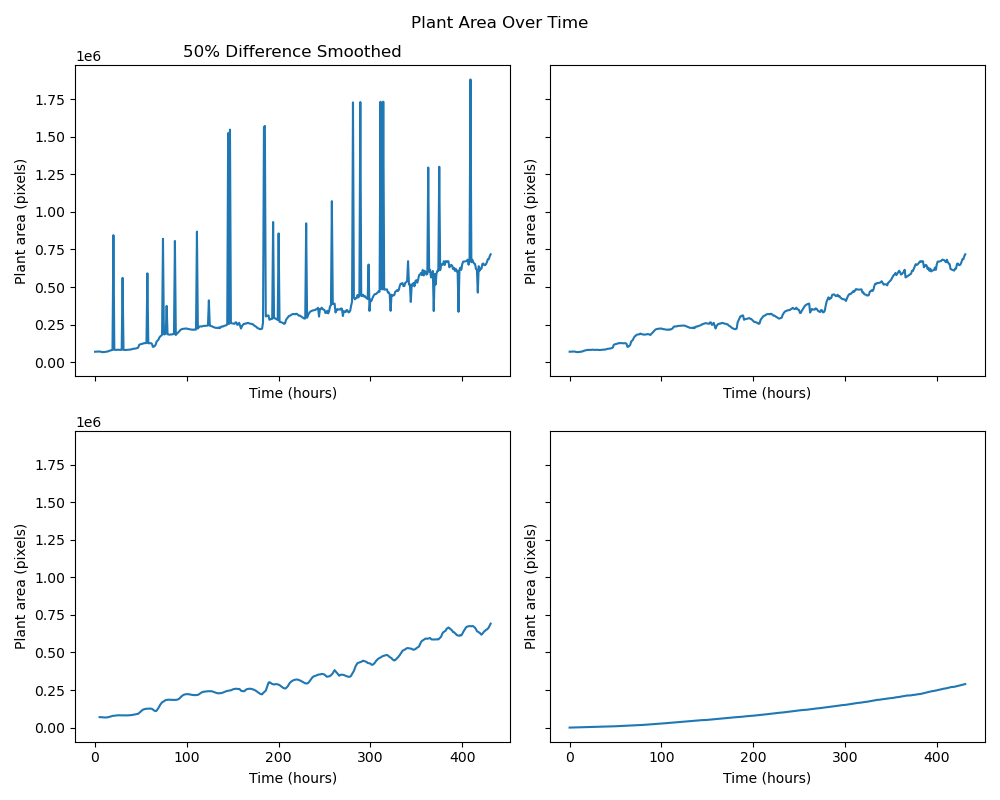
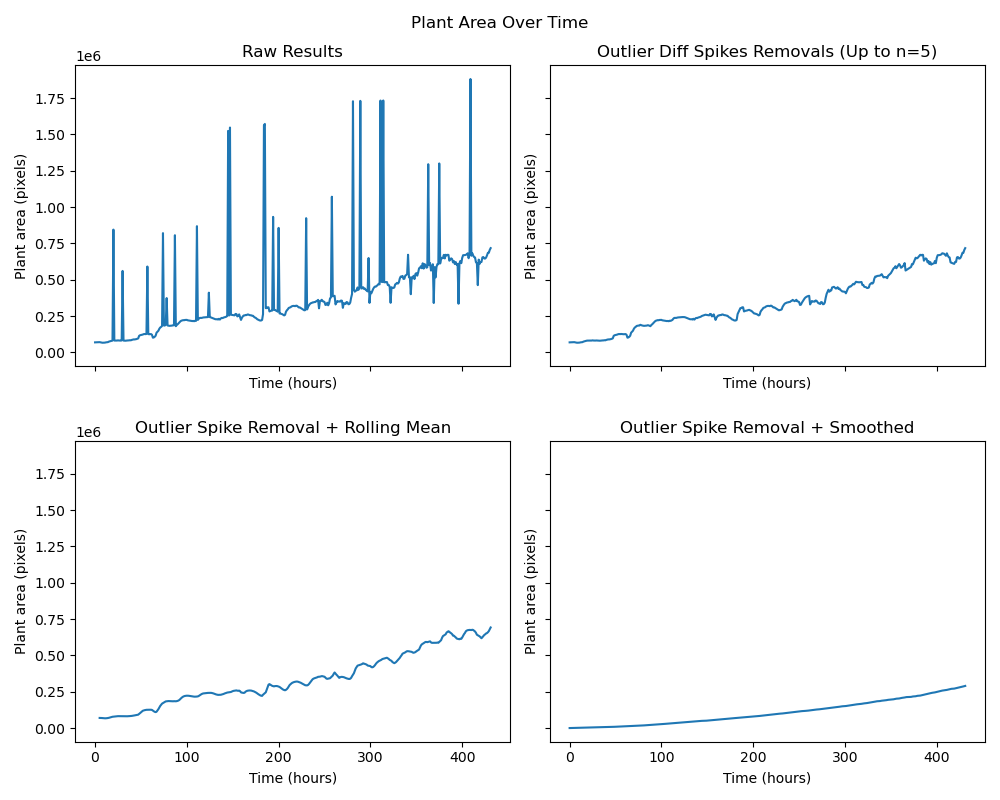
renamed plot titles

diff --git a/workflow/plant_area_over_time/plant_area_over_time.py b/workflow/plant_area_over_time/plant_area_over_time.py
@@ -128,11 +128,11 @@ fig.suptitle("Plant Area Over Time")
 axes[0,0].plot(graph_dataframe['hours_from_start'], graph_dataframe['area'])
 axes[0,0].set_title("Raw Results")
 axes[0,1].plot(filtered_df['hours_from_start'], filtered_df['area'])
-axes[0,1].set_title("50% Difference Removals")
+axes[0,1].set_title("Outlier Diff Spikes Removals (Up to n=5)")
 axes[1,0].plot(filtered_df['hours_from_start'], filtered_df['rolling_mean'])
-axes[1,0].set_title("50% Difference + Rolling Mean")
+axes[1,0].set_title("Outlier Spike Removal + Rolling Mean")
 axes[1,1].plot(filtered_df['hours_from_start'], filtered_df['smoothed'])
-axes[1,1].set_title("50% Difference Smoothed")
+axes[1,1].set_title("Outlier Spike Removal + Smoothed")
 
 for ax in axes.flat:
     ax.set(xlabel="Time (hours)", ylabel="Plant area (pixels)")
